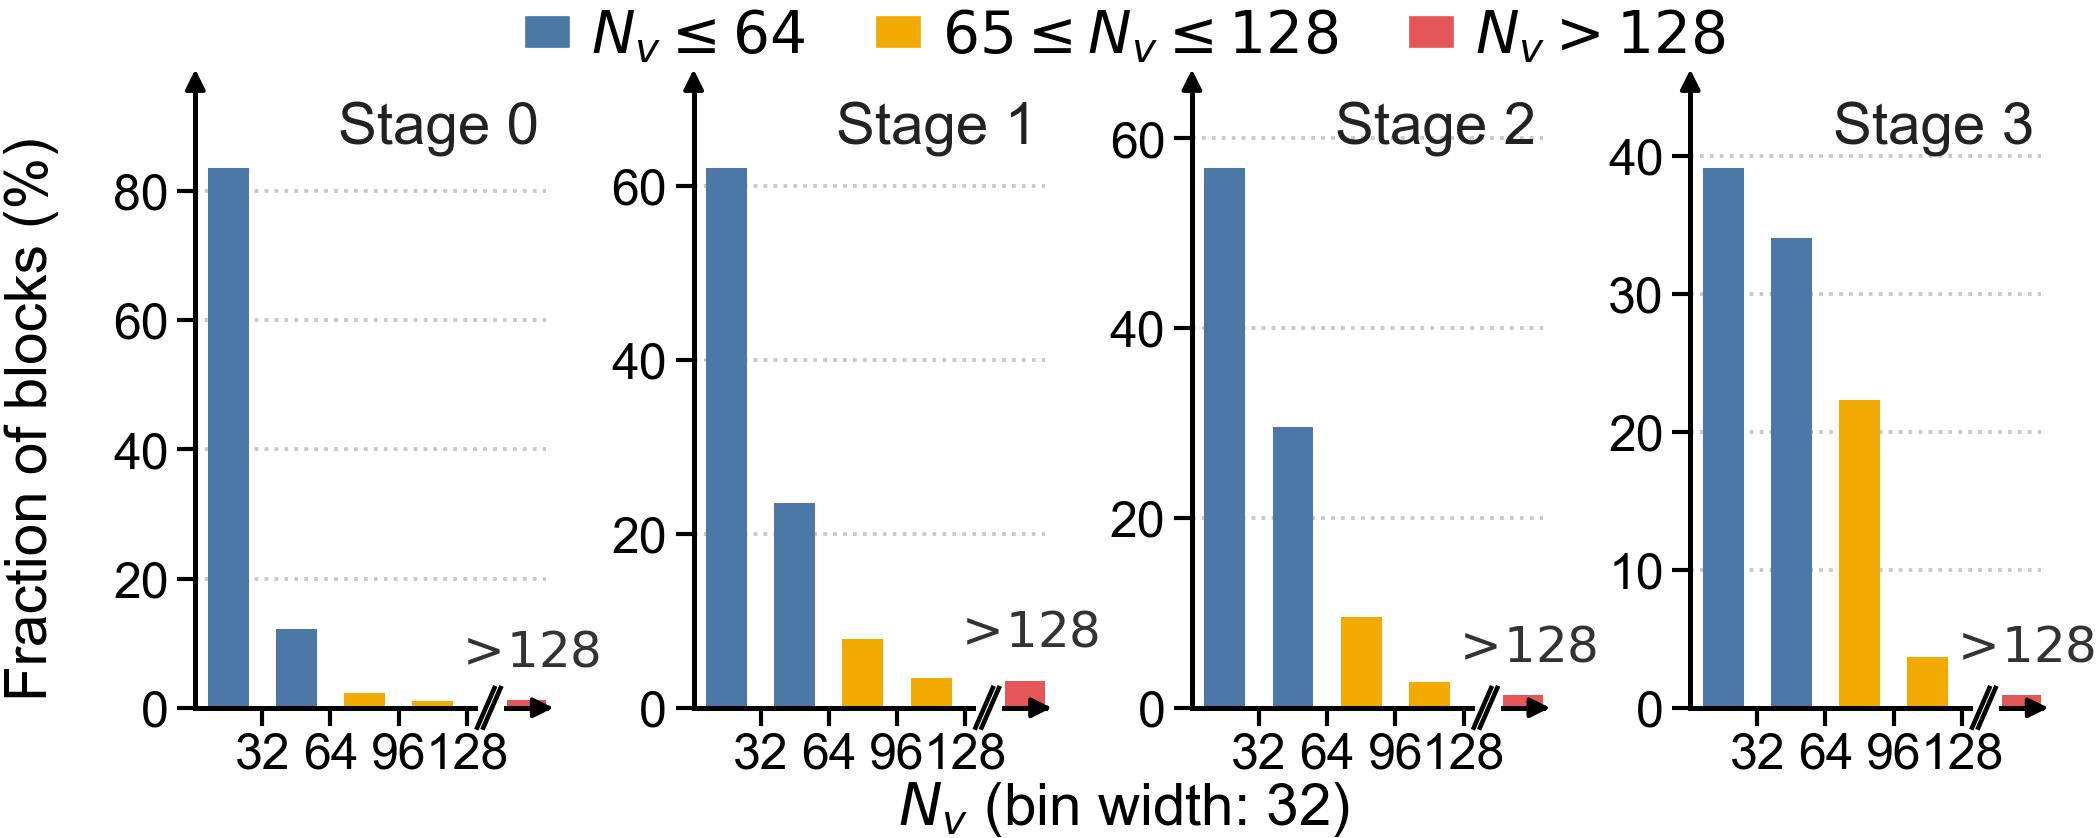
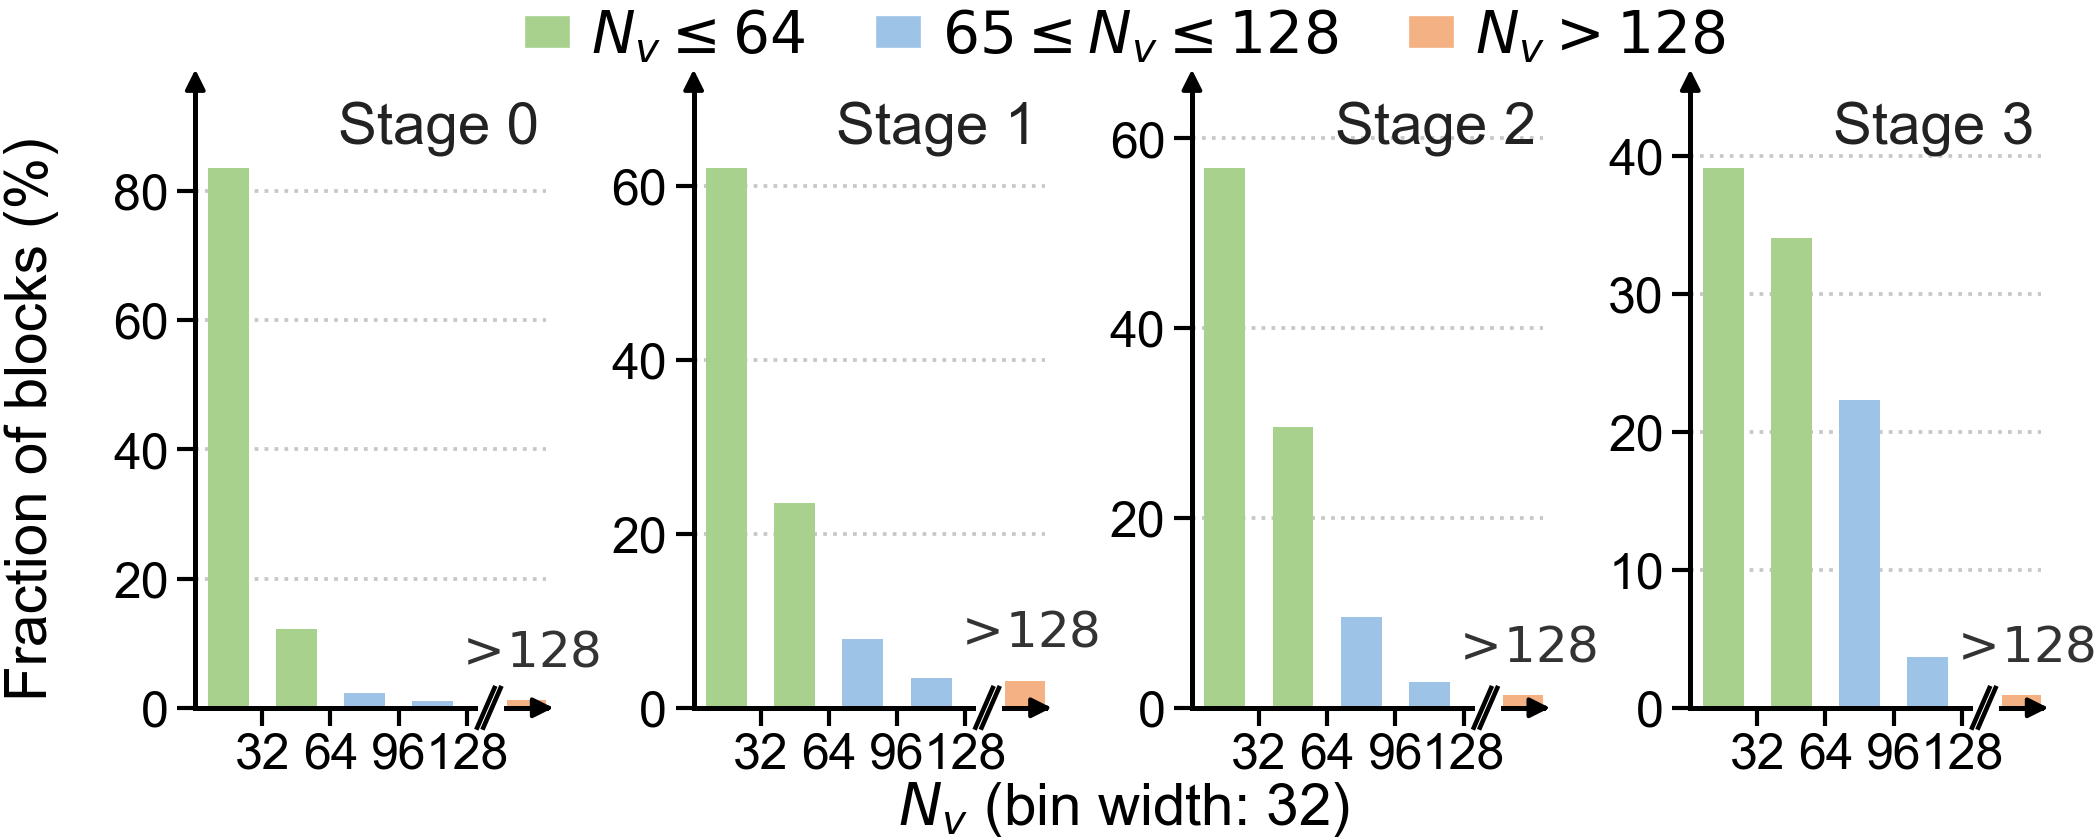
Refresh NB bin share plot palette
Updated the zone-block nb bin share plot colors to a softer green/blue/orange palette and regenerated the corresponding SVG/PNG outputs. This keeps the chart styling consistent with the revised design.

diff --git a/mycode/zone_block_search/nb_bin_share/plot_nb_bin_share.py b/mycode/zone_block_search/nb_bin_share/plot_nb_bin_share.py
@@ -22,9 +22,9 @@ STAGES = (0, 1, 2, 3)
 PACKAGE_DIR = Path(__file__).resolve().parent
 SEARCH_DIR = PACKAGE_DIR.parent
 
-COLOR_LE64 = '#4C78A8'
-COLOR_LE128 = '#F2A900'
-COLOR_RESHAPE = '#E45756'
+COLOR_LE64 = '#A9D18E'
+COLOR_LE128 = '#9DC3E6'
+COLOR_RESHAPE = '#F4B183'
 
 
 def default_csv(stage: int) -> Path:
